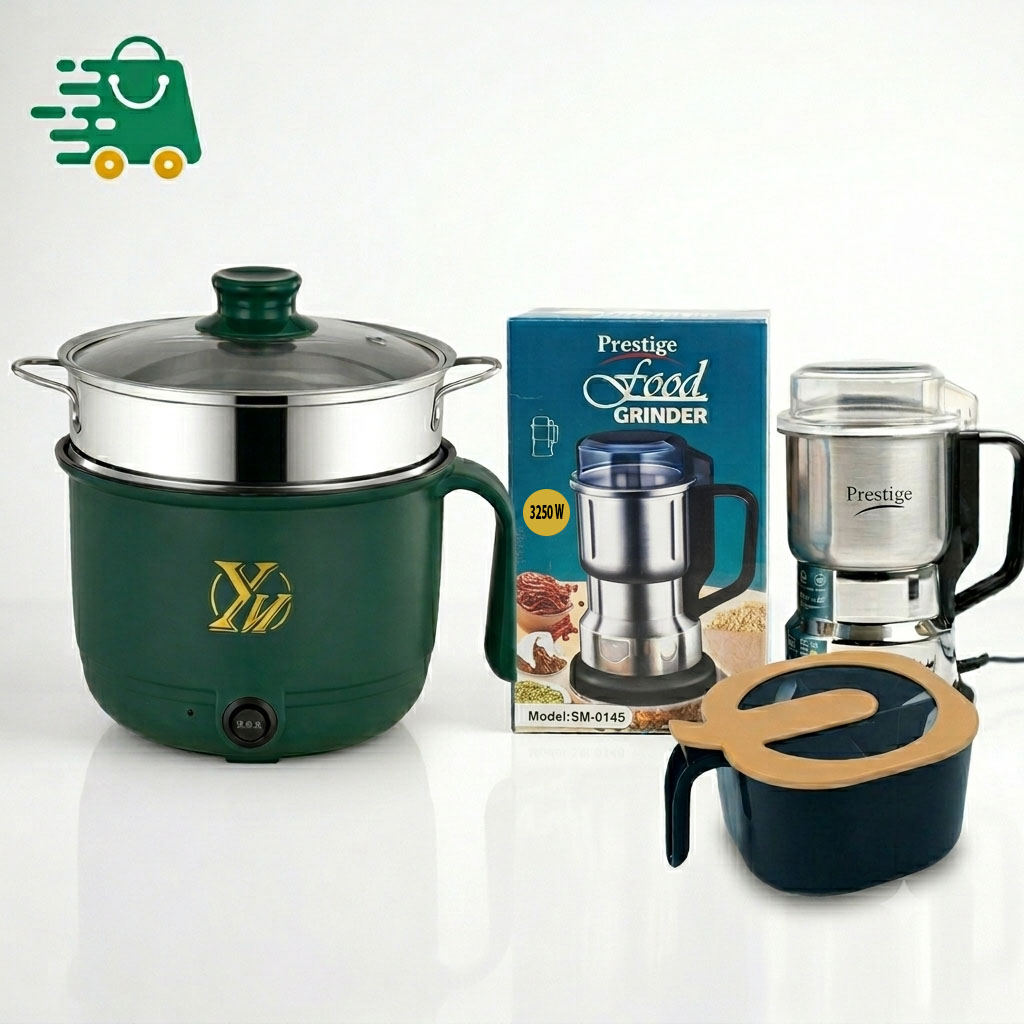
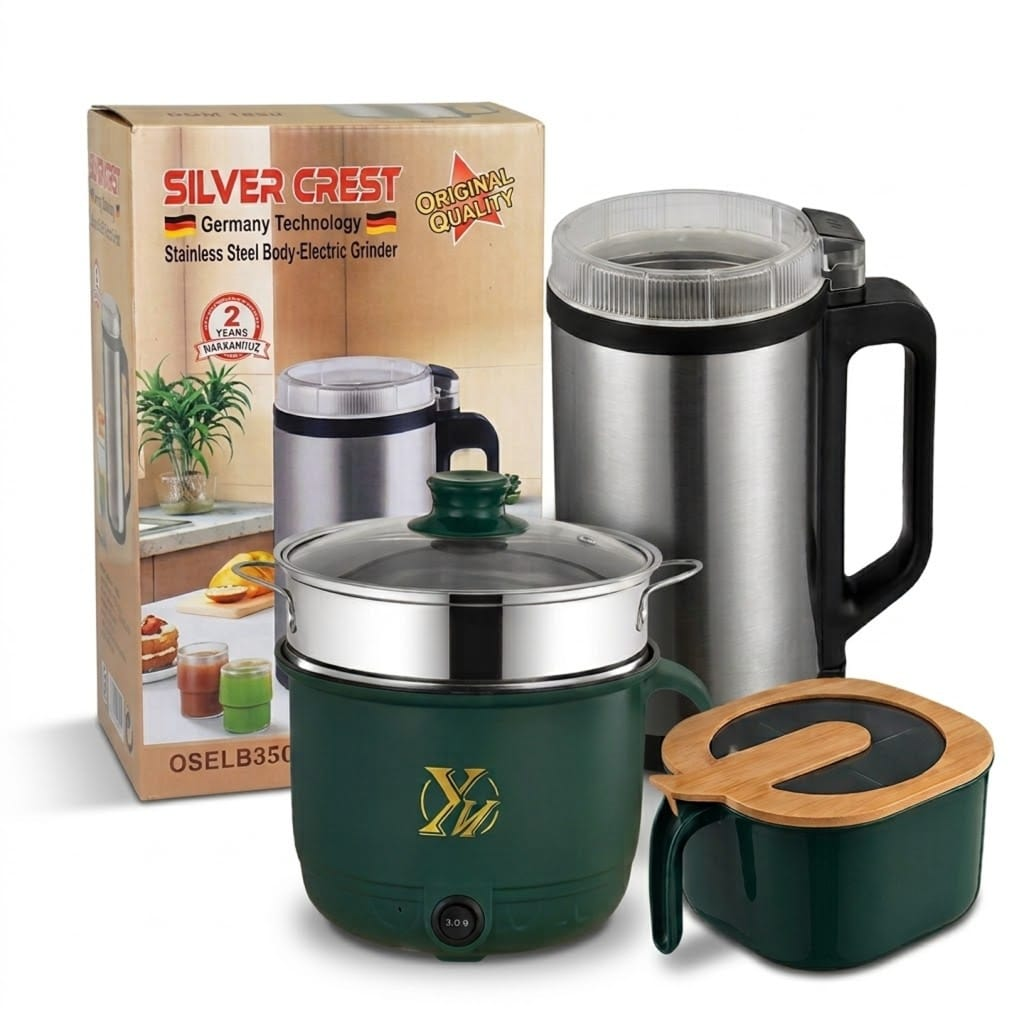
Add 4-image auto-sliding product carousel with touch swipe and dot navigation

diff --git a/style.css b/style.css
@@ -277,30 +277,119 @@ header.scrolled { box-shadow: 0 2px 12px rgba(0,0,0,0.09); }
   font-weight: 500;
 }
 
-/* Product Image */
-.product-img-wrap {
+/* ── Product Image Slider ── */
+.slider-wrap {
   position: relative;
   background: linear-gradient(135deg, #fff5f1 0%, #fafafa 100%);
   border-radius: var(--r-lg);
   border: 1px solid rgba(232,93,38,0.1);
   overflow: hidden;
-  display: flex;
-  align-items: center;
-  justify-content: center;
-  padding: 20px 16px;
-  min-height: 260px;
   box-shadow: var(--sh-md);
+  min-height: 280px;
+  user-select: none;
 }
 
-.product-img {
+.slider-track {
+  display: flex;
+  transition: transform 0.45s cubic-bezier(0.4, 0, 0.2, 1);
+  will-change: transform;
+}
+
+.slide {
+  min-width: 100%;
+  display: flex;
+  flex-direction: column;
+  align-items: center;
+  justify-content: center;
+  padding: 24px 16px 48px;
+  gap: 10px;
+  position: relative;
+}
+
+.slide img {
   max-height: 240px;
   width: auto;
   max-width: 100%;
   object-fit: contain;
+  border-radius: 8px;
   transition: transform 0.4s ease;
+  pointer-events: none;
 }
 
-.product-img-wrap:hover .product-img { transform: scale(1.04); }
+.slide-label {
+  position: absolute;
+  bottom: 48px;
+  left: 50%;
+  transform: translateX(-50%);
+  background: rgba(30, 41, 59, 0.75);
+  color: #fff;
+  font-size: 0.78rem;
+  font-weight: 600;
+  padding: 4px 14px;
+  border-radius: 50px;
+  white-space: nowrap;
+  backdrop-filter: blur(6px);
+  -webkit-backdrop-filter: blur(6px);
+  letter-spacing: 0.3px;
+}
+
+/* Arrows */
+.slider-arrow {
+  position: absolute;
+  top: 50%;
+  transform: translateY(-50%);
+  width: 36px;
+  height: 36px;
+  background: rgba(255,255,255,0.9);
+  border: none;
+  border-radius: 50%;
+  display: flex;
+  align-items: center;
+  justify-content: center;
+  cursor: pointer;
+  box-shadow: 0 2px 10px rgba(0,0,0,0.14);
+  color: var(--text);
+  transition: background var(--ease), transform var(--ease), box-shadow var(--ease);
+  z-index: 5;
+  padding: 0;
+}
+
+.slider-arrow:hover {
+  background: #fff;
+  box-shadow: 0 4px 18px rgba(0,0,0,0.18);
+  transform: translateY(-50%) scale(1.08);
+}
+
+.slider-prev { left: 10px; }
+.slider-next { right: 10px; }
+
+/* Dots */
+.slider-dots {
+  position: absolute;
+  bottom: 12px;
+  left: 50%;
+  transform: translateX(-50%);
+  display: flex;
+  gap: 7px;
+  z-index: 5;
+}
+
+.sdot {
+  width: 8px;
+  height: 8px;
+  border-radius: 50%;
+  border: none;
+  background: rgba(30,41,59,0.25);
+  cursor: pointer;
+  padding: 0;
+  transition: background var(--ease), transform var(--ease), width var(--ease);
+}
+
+.sdot.active {
+  background: var(--primary);
+  width: 22px;
+  border-radius: 50px;
+}
 
 .save-tag {
   position: absolute;
@@ -312,6 +401,7 @@ header.scrolled { box-shadow: 0 2px 12px rgba(0,0,0,0.09); }
   padding: 5px 12px;
   border-radius: 50px;
   box-shadow: 0 2px 8px rgba(22,163,74,0.3);
+  z-index: 4;
 }
 
 /* ── Price + CTA Row ── */

diff --git a/app.js b/app.js
@@ -9,6 +9,7 @@ document.addEventListener("DOMContentLoaded", () => {
   updateOrderSummary();
   setupEventListeners();
   setupComboAccordion();
+  setupProductSlider();
   fbSetupViewContentTracking();
 });
 
@@ -168,6 +169,75 @@ function setupEventListeners() {
       fbTrackInitiateCheckout();
     }
   });
+}
+
+/* ─────────────────────────────────────
+   PRODUCT IMAGE SLIDER
+───────────────────────────────────── */
+function setupProductSlider() {
+  const track   = document.getElementById("slider-track");
+  const prev    = document.getElementById("slider-prev");
+  const next    = document.getElementById("slider-next");
+  const dotsEl  = document.getElementById("slider-dots");
+  const wrap    = document.getElementById("product-slider");
+  if (!track || !prev || !next) return;
+
+  const TOTAL     = track.querySelectorAll(".slide").length;
+  const INTERVAL  = 4000; // ms between auto-slides
+  let current     = 0;
+  let autoTimer   = null;
+  let startX      = 0;
+  let isDragging  = false;
+
+  function goTo(idx) {
+    current = (idx + TOTAL) % TOTAL;
+    track.style.transform = `translateX(-${current * 100}%)`;
+    dotsEl.querySelectorAll(".sdot").forEach((d, i) => {
+      d.classList.toggle("active", i === current);
+    });
+  }
+
+  function startAuto() {
+    stopAuto();
+    autoTimer = setInterval(() => goTo(current + 1), INTERVAL);
+  }
+
+  function stopAuto() {
+    if (autoTimer) { clearInterval(autoTimer); autoTimer = null; }
+  }
+
+  // Arrow buttons
+  prev.addEventListener("click", () => { goTo(current - 1); startAuto(); });
+  next.addEventListener("click", () => { goTo(current + 1); startAuto(); });
+
+  // Dot buttons
+  dotsEl.querySelectorAll(".sdot").forEach(dot => {
+    dot.addEventListener("click", () => {
+      goTo(parseInt(dot.dataset.idx));
+      startAuto();
+    });
+  });
+
+  // Pause on hover/focus
+  wrap.addEventListener("mouseenter", stopAuto);
+  wrap.addEventListener("mouseleave", startAuto);
+
+  // Touch swipe support
+  wrap.addEventListener("touchstart", e => {
+    startX    = e.touches[0].clientX;
+    isDragging = true;
+    stopAuto();
+  }, { passive: true });
+
+  wrap.addEventListener("touchend", e => {
+    if (!isDragging) return;
+    const diff = startX - e.changedTouches[0].clientX;
+    if (Math.abs(diff) > 40) goTo(diff > 0 ? current + 1 : current - 1);
+    isDragging = false;
+    startAuto();
+  }, { passive: true });
+
+  startAuto();
 }
 
 /* ─────────────────────────────────────

diff --git a/index.html b/index.html
@@ -137,12 +137,45 @@
           <span class="stars-label">৪.৯/৫ &nbsp;|&nbsp; ১২৭+ রিভিউ</span>
         </div>
 
-        <!-- Product Image -->
-        <div class="product-img-wrap">
-          <img src="assets/combo pack.jpeg"
-               alt="চমকদার কম্বো প্যাক — ফুড গ্রাইন্ডার + মাল্টি কুকার + মশলার বাটি"
-               class="product-img" id="main-product-img" loading="eager">
+        <!-- Product Image Slider -->
+        <div class="slider-wrap" id="product-slider">
+          <div class="slider-track" id="slider-track">
+            <div class="slide">
+              <img src="assets/combo pack.jpeg" alt="কম্বো প্যাক — সম্পূর্ণ সেট" loading="eager">
+              <span class="slide-label">📦 কম্বো প্যাক (সম্পূর্ণ সেট)</span>
+            </div>
+            <div class="slide">
+              <img src="assets/food grinder.png" alt="ফুড গ্রাইন্ডার" loading="lazy">
+              <span class="slide-label">⚙️ ফুড গ্রাইন্ডার</span>
+            </div>
+            <div class="slide">
+              <img src="assets/multi cooker.png" alt="মাল্টি কুকার" loading="lazy">
+              <span class="slide-label">🍳 মাল্টি কুকার</span>
+            </div>
+            <div class="slide">
+              <img src="assets/masala box.jpeg" alt="মশলার বাটি" loading="lazy">
+              <span class="slide-label">✨ মশলার বাটি</span>
+            </div>
+          </div>
+
+          <!-- Prev / Next arrows -->
+          <button class="slider-arrow slider-prev" id="slider-prev" aria-label="আগের ছবি">
+            <svg xmlns="http://www.w3.org/2000/svg" width="20" height="20" viewBox="0 0 24 24" fill="none" stroke="currentColor" stroke-width="2.5" stroke-linecap="round" stroke-linejoin="round"><polyline points="15 18 9 12 15 6"/></svg>
+          </button>
+          <button class="slider-arrow slider-next" id="slider-next" aria-label="পরের ছবি">
+            <svg xmlns="http://www.w3.org/2000/svg" width="20" height="20" viewBox="0 0 24 24" fill="none" stroke="currentColor" stroke-width="2.5" stroke-linecap="round" stroke-linejoin="round"><polyline points="9 18 15 12 9 6"/></svg>
+          </button>
+
+          <!-- Save tag -->
           <span class="save-tag">৳৬০০ সেভ</span>
+
+          <!-- Dot indicators -->
+          <div class="slider-dots" id="slider-dots">
+            <button class="sdot active" data-idx="0" aria-label="স্লাইড ১"></button>
+            <button class="sdot" data-idx="1" aria-label="স্লাইড ২"></button>
+            <button class="sdot" data-idx="2" aria-label="স্লাইড ৩"></button>
+            <button class="sdot" data-idx="3" aria-label="স্লাইড ৪"></button>
+          </div>
         </div>
 
         <!-- Price + Order Now Button -->